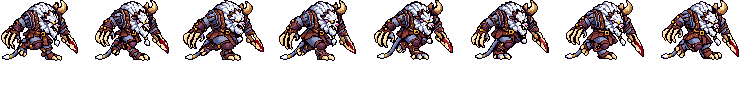
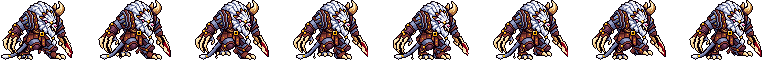
Rengar PPU redo: the run as his old trot - the legs take turns (「走路两个腿不交换的」)
Codex's eight run frames all kept the far leg planted in front and the near leg lifted behind. The run is now built
from the design like the old rig's trot the user picked (「不对选A 不用交叉步」): the lower legs swung about the knees in
turn (front and back swap twice a cycle, 12 columns apart: no crossing), each foot lifted while it swings forward, the
body dipping a square as a foot lands, the arms swinging against the legs, the tail's end swaying - the old numbers
x PPU (TROT_*). The run's row cuts and front-tail entries are gone with Codex's run frames.

diff --git a/tools/art/rig_rengar_hd.py b/tools/art/rig_rengar_hd.py
@@ -30,6 +30,7 @@ import casts_rengar_hd as CS  # noqa: E402
 import design_rengar_hd as DH  # noqa: E402
 import ppu_rig as R  # noqa: E402
 import rig_xinzhao_hd as XZ  # noqa: E402
+import rigkit as K  # noqa: E402
 
 HERO = "rengar"
 PPU = CS.PPU
@@ -44,10 +45,20 @@ SAME_DESIGN = {"attack": [6], "leap": [8], "skill": [8], "skill2": [6], "skill_w
 # the old sheet's sinks in 1x pixels: idle_base its breath, ult its crouch (= idle_base's sunk frames)
 BREATH = [0, 0, 1, 2, 2, 2, 1, 0]
 ULT = [1, 2, 2, 1]
-# the run: Codex drew frames 3-4 on straighter legs, the head 5-6 squares over frames 5-8 (one hop a cycle; the old run
-# bobbed a pixel) - whole rows cut out of the legs (RUN_LEGS: squares over the soles), evenly, the feet where they stand
-RUN_CUT = {1: 1, 2: 1, 3: 3, 4: 4}
-RUN_LEGS = (17, 5)
+# The run (「走路两个腿不交换的 怎么看起来」): Codex's eight run frames all kept the far leg planted in front and the near
+# leg lifted behind - the legs never took turns. Rebuilt as his old run, the trot the user picked (「不对选A 不用交叉步」,
+# tools/art/rig_rengar.py): the design's lower legs swung about the knees in turn (rigkit.swing_leg: whole rows; the
+# feet stand 12 columns apart, so front and back swap without crossing), each foot lifted while it swings forward, the
+# body dipping as a foot lands, the arms swinging against the legs, the tail's end swaying - the old rig's numbers x PPU.
+TROT_STRIDE = [4, 3, 0, -3, -4, -3, 0, 3]
+TROT_LIFT = ([0, 3, 4, 3, 0, 0, 0, 0], [0, 0, 0, 0, 0, 3, 4, 3])      # the near (image-left) foot, the far one
+TROT_DROP = [1, 0, 0, 0, 1, 0, 0, 0]
+TROT_ARM = [-3, -1, 0, 1, 3, 1, 0, -1]
+TROT_TAIL = [-2, 0, 2, 0, -2, 0, 2, 0]
+LEGS = ((49, 18, 41), (50, 41, 63))     # the lower legs: (knee row, first column, column past) near, far
+ANKLE = 55                              # the feet: this row down
+ARMS = ((27, 0, 22, 53), (27, 57, 999, 57))  # the claw arm, the blade arm: (elbow row, columns, lowest row)
+BLADE_LOW = (46, 63)                    # from row 46 the blade arm is the blade only (columns 63 up): the far foot is not
 FEET = (52, 18, 63)             # the design's feet: rows 52 down between columns 18 and 62 (the claw and the blade out)
 # The tail (design_rengar_hd: Codex drew it in front of him, the user: 「怎么尾巴在手上？」「尾巴还是不对」). On the frames that
 # copied the design's front tail it is taken off (FRONT_TAILS: the box round it on the cast picture, design_rengar_hd.
@@ -56,8 +67,6 @@ FEET = (52, 18, 63)             # the design's feet: rows 52 down between column
 # gold ring and the tuft - the design's shape (tail_path); in the air it hangs as far under his hip as when he stands.
 # Frames Codex already drew with the tail behind him (the leap's 2nd, 4th and 5th, the fall) keep theirs.
 FRONT_TAILS = {
-    "run_1": (21, 38, 66, 78), "run_2": (19, 37, 64, 75), "run_3": (20, 40, 71, 83), "run_4": (24, 41, 70, 80),
-    "run_5": (19, 37, 69, 80), "run_6": (19, 36, 67, 79), "run_7": (22, 39, 68, 81), "run_8": (22, 39, 67, 80),
     "attack_1": (30, 50, 69, 82), "attack_2": (35, 55, 61, 75), "attack_3": (36, 56, 63, 77),
     "attack_4": (33, 54, 60, 73), "attack_5": (34, 48, 56, 69),
     "leap_1": (27, 44, 70, 82), "leap_3": (38, 56, 64, 82), "leap_6": (32, 46, 60, 73), "leap_7": (21, 40, 74, 92),
@@ -70,9 +79,8 @@ FRONT_TAILS = {
     "hit_1": (23, 41, 68, 80), "hit_2": (23, 39, 69, 82), "dead_1": (48, 60, 49, 66),
 }
 HIPS = {
-    "run_1": (40, 24), "run_2": (40, 23), "run_3": (41, 25), "run_4": (43, 24), "run_5": (38, 26), "run_6": (40, 27),
-    "run_7": (41, 22), "run_8": (41, 22), "attack_1": (45, 24), "attack_2": (42, 20), "attack_3": (48, 25),
-    "attack_4": (46, 24), "attack_5": (44, 25), "leap_1": (46, 27), "leap_3": (43, 32), "leap_6": (40, 24),
+    "attack_1": (45, 24), "attack_2": (42, 20), "attack_3": (48, 25), "attack_4": (46, 24), "attack_5": (44, 25),
+    "leap_1": (46, 27), "leap_3": (43, 32), "leap_6": (40, 24),
     "leap_7": (44, 26), "skill_1": (46, 26), "skill_2": (60, 24), "skill_3": (60, 24), "skill_4": (60, 28),
     "skill_5": (44, 25), "skill_6": (51, 22), "skill_7": (57, 26), "skill2_1": (45, 23), "skill2_2": (44, 26),
     "skill2_3": (51, 20), "skill2_4": (49, 30), "skill2_5": (50, 25), "skill_w_1": (52, 27), "skill_w_3": (51, 22),
@@ -192,17 +200,27 @@ def sunk(D, rows):
     return DH.tail(out, back, ground=h)
 
 
-def cut_legs(rig, can, n):
-    """n whole rows cut out of the band RUN_LEGS over the soles (evenly spread), what is over them lowered n rows."""
-    if not n:
-        return can
-    hi, lo = rig.GY - RUN_LEGS[0], rig.GY - RUN_LEGS[1]
-    cut = set(int(round(v)) for v in np.linspace(hi, lo - 1, n + 2)[1:-1])
-    keep = [r for r in range(rig.GY) if r not in cut]
-    out = rig.canvas()
-    out[rig.GY - len(keep):rig.GY] = can[keep]
-    out[rig.GY:] = can[rig.GY:]
-    return out
+def trot(D, k):
+    """Run frame k: the tail-less design's lower legs swung and lifted (TROT_*), the arms swung, the rest dipped, the
+    tail drawn behind it (its root with him, its end swaying)."""
+    b = D.bare
+    h, w = b.shape[:2]
+    op = b[..., 3] > 0
+    R_, C_ = np.mgrid[0:h, 0:w]
+    legs = [op & (R_ >= kr) & (C_ >= c0) & (C_ < c1) for kr, c0, c1 in LEGS]
+    arms = [op & (R_ >= er) & (C_ >= c0) & (C_ < c1) for er, c0, c1, _ in ARMS]
+    arms[1] &= ~((R_ >= BLADE_LOW[0]) & (C_ < BLADE_LOW[1]))
+    top = b.copy()
+    top[legs[0] | legs[1] | arms[0] | arms[1]] = 0
+    for m, (er, _, _, low), sign in zip(arms, ARMS, (-1, 1)):
+        K.put(top, K.swing_leg(b, m, er, low, sign * TROT_ARM[k]), 0, 0)
+    feet = np.zeros_like(b)
+    for m, (kr, _, _), sign, lift in zip(legs, LEGS, (-1, 1), TROT_LIFT):
+        K.put(feet, K.swing_leg(b, m, kr, ANKLE, sign * TROT_STRIDE[k], lift[k]), 0, 0)
+    c = K.put(K.shifted(top, 0, TROT_DROP[k]), feet, 0, 0, under=True)
+    c[h:] = 0
+    back = [(r + TROT_DROP[k], c_) if i < 2 else (r, c_ + TROT_TAIL[k] * (i - 1) / 4) for i, (r, c_) in enumerate(DH.BACK)]
+    return DH.tail(c, back, ground=h)
 
 
 def frames(rig, casts):
@@ -217,6 +235,8 @@ def frames(rig, casts):
             fr = [on_grid(rig, sunk(rig.D, round(s * PPU)), 0, 0) for s in BREATH]
         elif tag == "ult":
             fr = [on_grid(rig, sunk(rig.D, round(s * PPU)), 0, 0) for s in ULT]
+        elif tag == "run":
+            fr = [on_grid(rig, trot(rig.D, k), 0, 0) for k in range(n)]
         else:
             fr = []
             for k in range(1, n + 1):
@@ -224,8 +244,6 @@ def frames(rig, casts):
                     fr.append(on_grid(rig, d0, 0, 0))
                 else:
                     fr.append(on_grid(rig, *casts[f"{tag}_{SAME.get(tag, {}).get(k, k)}"]))
-            if tag == "run":
-                fr = [cut_legs(rig, f, RUN_CUT.get(k + 1, 0)) for k, f in enumerate(fr)]
             if tag == "hit":
                 fr[0] = R.flash(rig.finish(fr[0]))      # (the struck frame flashes, as every rig's)
         if len(fr) != n:
